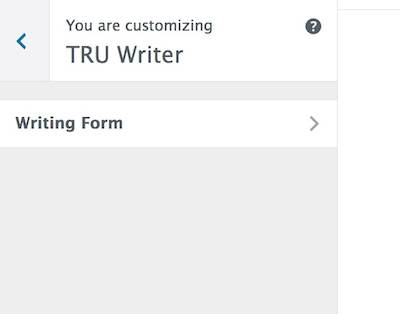
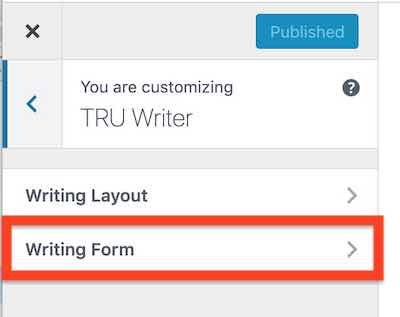
Customiser Instructions

Changed region(s): [[0.0, 0.0, 1.0, 1.0], [0.87, 0.4586, 0.96, 0.5446], [0.78, 0.3726, 0.81, 0.4299]]

diff --git a/README.md b/README.md
@@ -264,9 +264,9 @@ Or you can set the option to **Enable users to choose license** which places the
 
 ## Customize the Write Form
 
-You can  customize the field labels and the descriptions of the form where people submit new pieces of writing to a TRU Writer site. On your site navigate to the write form, and  activate the Wordpress Customizer from the admin bar. 
+You can  customize the field labels and the descriptions of the form where people submit new pieces of writing to a TRU Writer site. On your site navigate to the write form, and activate the Wordpress Customizer from the admin bar. 
 
-Look for a special section at the bottom to open:
+Look for a special section just below **Site Identity** to open:
 
 ![](images/customizer-writer-tab.jpg)
 
@@ -286,6 +286,12 @@ You can  also customize the content layout. On your site navigate to any content
 
 ![](images/customizer-layout.jpg)
 
+## Customize Heading for Single Page Metadata
+
+A small thing, but a corny heading of "SO IT WAS WRITTEN" was hardwired into the singl post template; this is now something that can be changed in the Customizer. From the **TRU Writer** pane, open **Writer Layout**.
+
+![](images/meta-heading.jpg)
+
 ## Some Complexish Stuff for Nerds, Who Are Awesome
 
 If you want to customize/re-arrange the buttons and controls on the rich text editor used by writers on your site, install [TinyMCE Advanced](https://wordpress.org/plugins/tinymce-advanced/). There is [a file in the theme](includes/tinymce-advanced-settings.txt)  with the typical settings for this plugin I use when I set up these sites.
@@ -295,7 +301,7 @@ You can copy and paste from that .txt file into the import field of the settings
 ## Relatively Cool New Features & Updates
 
 
-**Options for Special Pages**  No longer are pages for the Welcome Desk (where access codes are entered) and Writer form required to have a set URL; you can create any Page desired for these functions, and set them as the active ones via the theme options.
+**Options for Special Pages**  No longer are pages for the Welcome Desk (where access codes are entered) and Writer form required to have a set URL; you can create any Page desired for these functions, and set them as the active ones via the theme options. Version 2.0 does some better set up for defaults.
 
 **Better Front End Editor**  Reduced reliance on special pages. The links to the random entry and the one use to get the edit link are no longer needed, and are handle now in the code. These pages should be deleted from your site. On an update to version 1.7 or later, you might have to go to **Settings** - **Permalinks** and just click save to update the url rules. Also the method for using the special link to edit an entry is now done in a single click. Much better!
 
